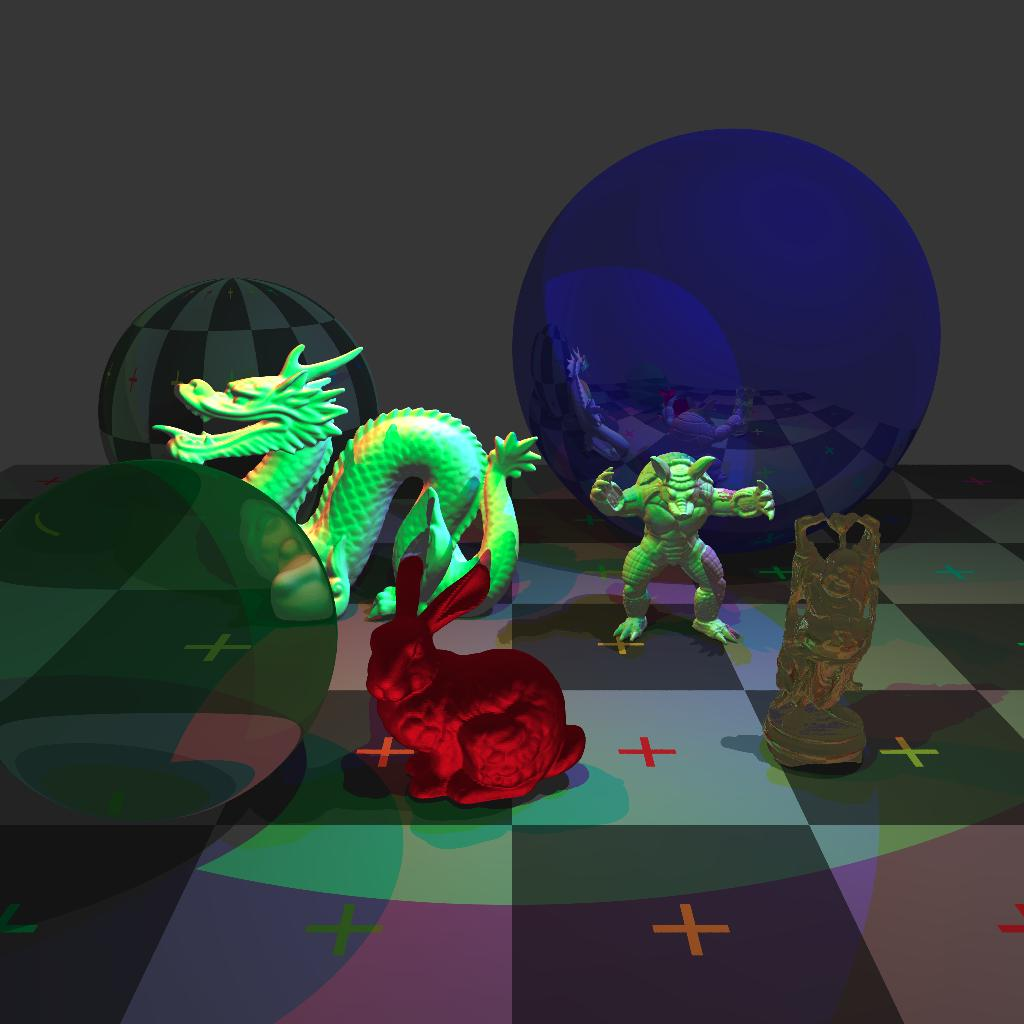
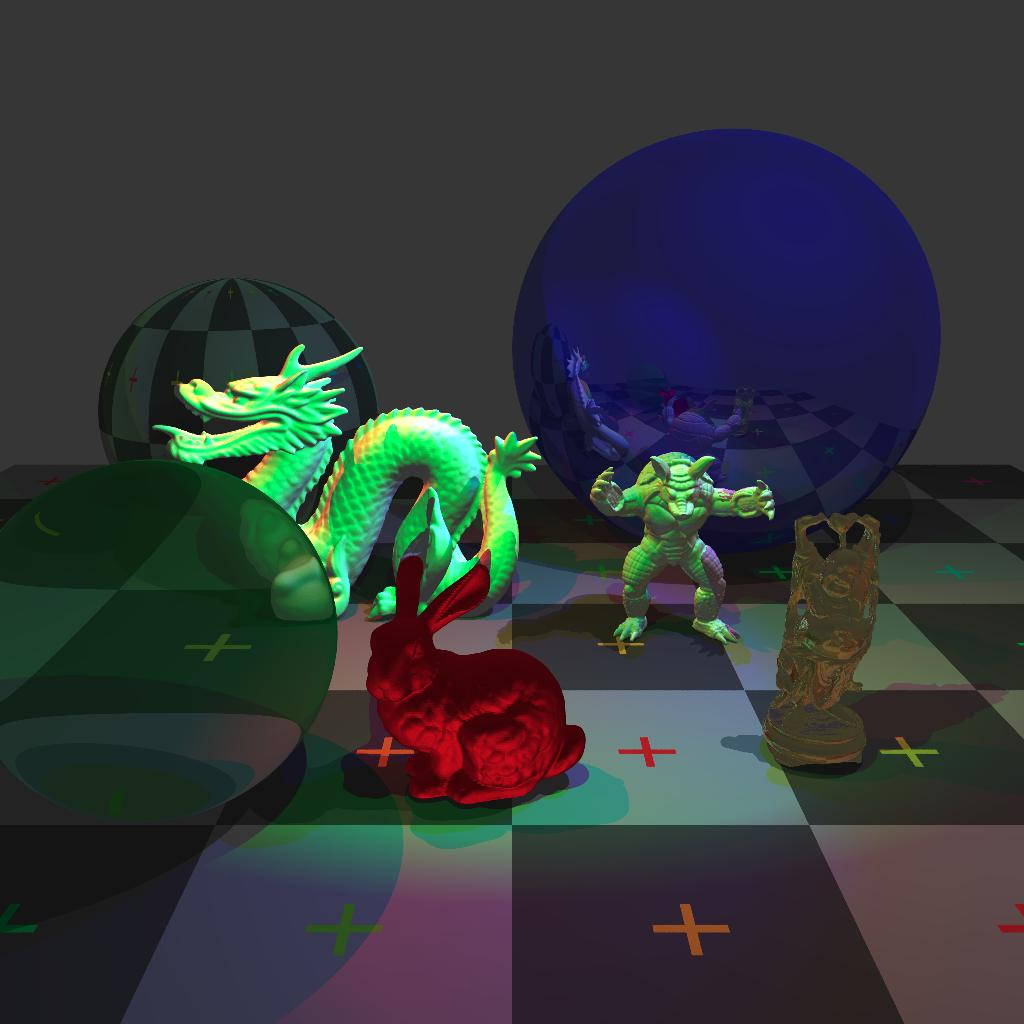
Add boundary falloff for cone light sources

diff --git a/src/light.rs b/src/light.rs
@@ -1,6 +1,7 @@
 use super::bvh::Bvh;
 use super::color::Color;
 use super::ray::Ray;
+use super::utils::clamp;
 use cgmath::{Deg, InnerSpace, MetricSpace, Point3, Vector3};
 
 /// Ambient light has no position or direction
@@ -54,9 +55,27 @@ impl Light {
         }
     }
 
-    pub fn get_falloff(distance_sqrd: f32) -> f32 {
-        // TODO: Remove constants here.
-        5.0 / (0.001 + distance_sqrd)
+    pub fn get_falloff_at(&self, point: Point3<f32>) -> f32 {
+        match self.light_type {
+            LightType::Point(position) => {
+                let distance_sqrd = (position - point).magnitude2();
+                // TODO: Remove constants here.
+                5.0 / (0.001 + distance_sqrd)
+            }
+            LightType::Cone(position, direction, angle) => {
+                let cone_falloff = {
+                    // TODO: Make this a field.
+                    let falloff_range: Deg<f32> = Deg(8.0);
+                    let angle_to_point: Deg<f32> = direction.angle(point - position).into();
+                    let angle_delta = angle - angle_to_point;
+                    clamp(angle_delta / falloff_range, 0.0, 1.0)
+                };
+                let distance_sqrd = (position - point).magnitude2();
+                // TODO: Remove constants here.
+                cone_falloff * 5.0 / (0.001 + distance_sqrd)
+            }
+            _ => unreachable!(),
+        }
     }
 
     fn in_shadow(
@@ -92,7 +111,6 @@ impl Light {
                 bvh.get_closest_intersection(&object_to_light).is_none()
             }
             LightType::Cone(light_position, direction, angle) => {
-                let direction = direction.normalize();
                 let light_direction = point - light_position;
                 if direction.angle(light_direction) > angle.into() {
                     false

diff --git a/src/material.rs b/src/material.rs
@@ -155,8 +155,7 @@ impl MaterialType {
                             LightType::Ambient => light.color,
                             LightType::Point(position) | LightType::Cone(position, _, _) => {
                                 let light_dir = position - intersection_point;
-                                // TODO: Give falloff code to Light.
-                                let falloff = Light::get_falloff(light_dir.magnitude2());
+                                let falloff = light.get_falloff_at(intersection_point);
                                 let phong_multiple = MaterialType::get_phong_multiple(
                                     light_dir.normalize(),
                                     normal,
